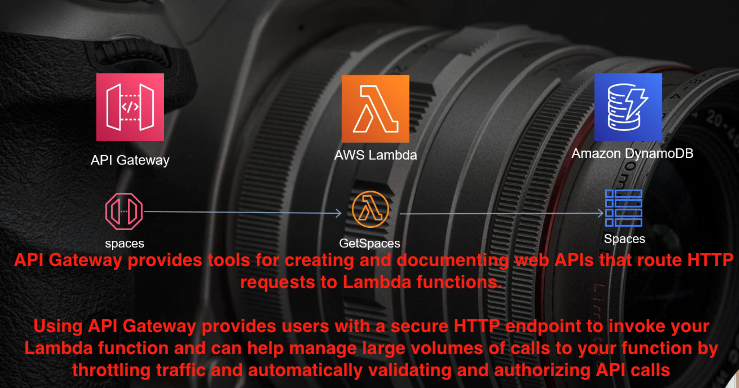
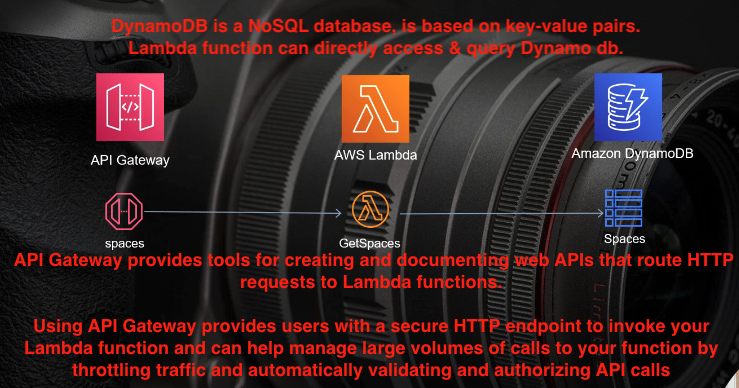
initiated dynamo db for lambda query

Changed region(s): [[0.1556, 0.0309, 0.8714, 0.1546]]

diff --git a/cdkAppFromScratch/src/stacks/LambdaStack.ts b/cdkAppFromScratch/src/stacks/LambdaStack.ts
@@ -1,18 +1,24 @@
 import { Stack, StackProps } from "aws-cdk-lib";
 import { LambdaIntegration } from "aws-cdk-lib/aws-apigateway";
+import { ITable } from "aws-cdk-lib/aws-dynamodb";
 import { Code, Function as LambdaFunction, Runtime } from "aws-cdk-lib/aws-lambda";
 import { Construct } from "constructs";
 import { join } from "path";
+
+interface LambdaStackProps extends StackProps {
+  spacesTable: ITable;
+}
 
 // stack to deploy lambda function using cdk
 export class LambdaStack extends Stack {
   public readonly helloLambdaIntegration: LambdaIntegration;
 
-  constructor(scope: Construct, id: string, props?: StackProps) {
+  constructor(scope: Construct, id: string, props: LambdaStackProps) {
     super(scope, id, props);
 
-    // Lambda function is a code to create a resource in AWS
-    // This lambda fn belongs to the this stack
+    // Lambda is a serverless computation (no server) where our function code runs in response to events
+    // and automatically manages resource scaling for us. eg.direct api query to database without server
+    // This lambda fn belongs to the this stack.
     const helloLambda = new LambdaFunction(this, "HelloLambda", {
       runtime: Runtime.NODEJS_18_X,
 
@@ -21,6 +27,11 @@ export class LambdaStack extends Stack {
 
       // how to execute lambda code & specify path to our code
       code: Code.fromAsset(join(__dirname, "..", "services")),
+
+      // note: lambda to access db table in Dynamo db
+      environment: {
+        TABLE_NAME: props.spacesTable.tableName,
+      },
     });
 
     this.helloLambdaIntegration = new LambdaIntegration(helloLambda);

diff --git a/cdkAppFromScratch/src/stacks/ApiStack.ts b/cdkAppFromScratch/src/stacks/ApiStack.ts
@@ -6,7 +6,7 @@ import { Construct } from "constructs";
 // API Gateway provides tools for creating and documenting web APIs that route HTTP requests to Lambda functions.
 // Using API Gateway provides users with a secure HTTP endpoint to invoke your Lambda function and can help manage large volumes of calls to your function by throttling traffic and automatically validating and authorizing API calls.
 
-// custom interface since this stack will be accessing shared data using cdk props
+// custom interface since this stack will be accessing shared data in Lambda Stack using cdk props
 interface ApiStackProps extends StackProps {
   helloLambdaIntegration: LambdaIntegration;
 }
@@ -15,10 +15,10 @@ export class ApiStack extends Stack {
   constructor(scope: Construct, id: string, props: ApiStackProps) {
     super(scope, id, props);
 
-    // Rest api construct
+    // Rest Api construct gateway
     const api = new RestApi(this, "SpacesApi");
     // 'root' - Represents the root resource of this API endpoint ('/').
-    // Resources and Methods are added to this resource.
+    // Resources and Methods are added to this resource '/spaces'
     const spacesResources = api.root.addResource("spaces");
 
     // config to link to our lambda

diff --git a/cdkAppFromScratch/src/stacks/DataStack.ts b/cdkAppFromScratch/src/stacks/DataStack.ts
@@ -1,8 +1,29 @@
 import { Stack, StackProps } from "aws-cdk-lib";
+import { AttributeType, ITable, Table } from "aws-cdk-lib/aws-dynamodb";
 import { Construct } from "constructs";
+import { getSuffixFromStack } from "../infra/utils";
 
+// Application data to be store in Dynamo DB
 export class DataStack extends Stack {
+  public readonly spacesTable: ITable;
+
   constructor(scope: Construct, id: string, props?: StackProps) {
     super(scope, id, props);
+
+    const suffix = getSuffixFromStack(this);
+
+    this.spacesTable = new Table(this, "SpacesTable", {
+      // note: partition key - must have important property
+      // The Primary Key in relation db is equivalent to the Partition Key in a single-field-key table.
+      // 'Partitioning key' is an ordered set of one or more columns in a table and
+      // while the 'sort key' is used to sort items within a partition.
+      partitionKey: {
+        name: "id",
+        type: AttributeType.STRING,
+      },
+
+      // table name should be unique so to avoid issues
+      tableName: "SpaceTable",
+    });
   }
 }

diff --git a/cdkAppFromScratch/src/infra/Luncher.ts b/cdkAppFromScratch/src/infra/Luncher.ts
@@ -7,10 +7,12 @@ import { ApiStack } from "../stacks/ApiStack";
 const app = new App();
 
 // Stacks belong to the current cdk app
-new DataStack(app, "DataStack");
+const dataStack = new DataStack(app, "DataStack");
 
 // lambda stack
-const lambdaStack = new LambdaStack(app, "LambdaStack");
+const lambdaStack = new LambdaStack(app, "LambdaStack", {
+  spacesTable: dataStack.spacesTable,
+});
 
 // Using API Gateway provides users with a secure HTTP endpoint to invoke your Lambda function
 // Config to link API Gateway stack to our lambda stack above

diff --git a/cdkAppFromScratch/src/services/hello.js b/cdkAppFromScratch/src/services/hello.js
@@ -6,6 +6,6 @@ exports.main = async function (event, context) {
     // note: in order for this lambda to be executed by Api Gateway,
     // it needs to return statusCode & body in the json format
     statusCode: 200,
-    body: JSON.stringify("Hello from lambda!"),
+    body: JSON.stringify(`Hello! I will read from ${process.env.TABLE_NAME}`),
   };
 };

diff --git a/cdkAppFromScratch/src/infra/utils.ts b/cdkAppFromScratch/src/infra/utils.ts
@@ -1,0 +1,8 @@
+import { Fn, Stack } from "aws-cdk-lib";
+
+// Getting Stack's very last random part of its name to generate unique names
+export function getSuffixFromStack(stack: Stack) {
+  const shortStackId = Fn.select(2, Fn.split("/", stack.stackId));
+  const suffix = Fn.select(4, Fn.split("-", shortStackId));
+  return suffix;
+}
